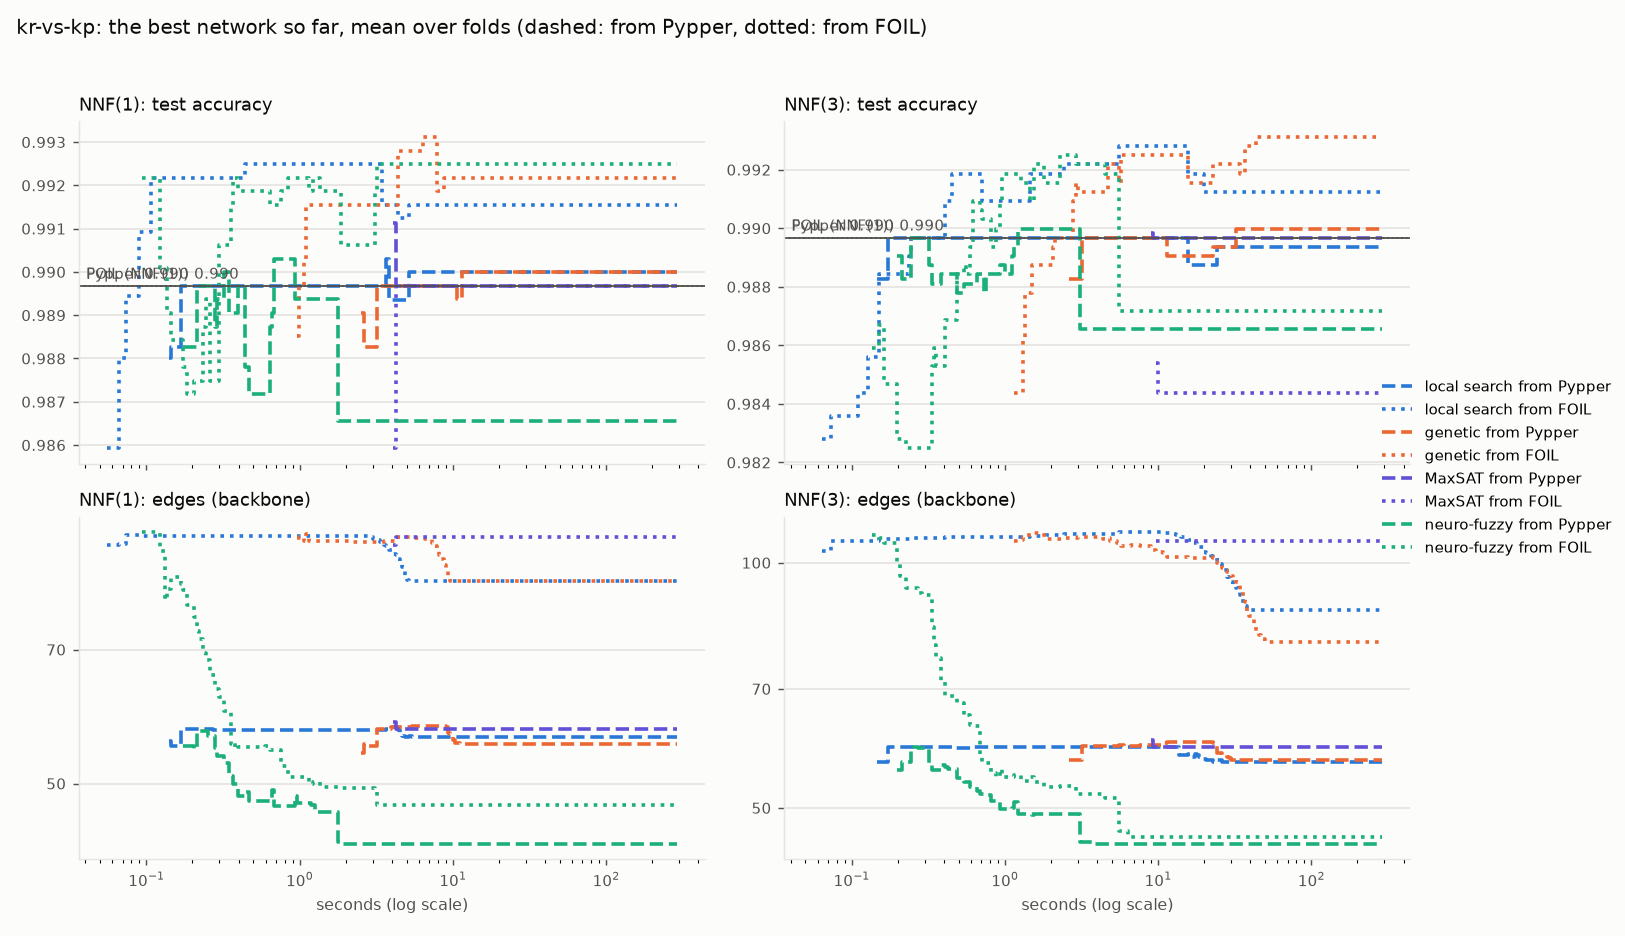
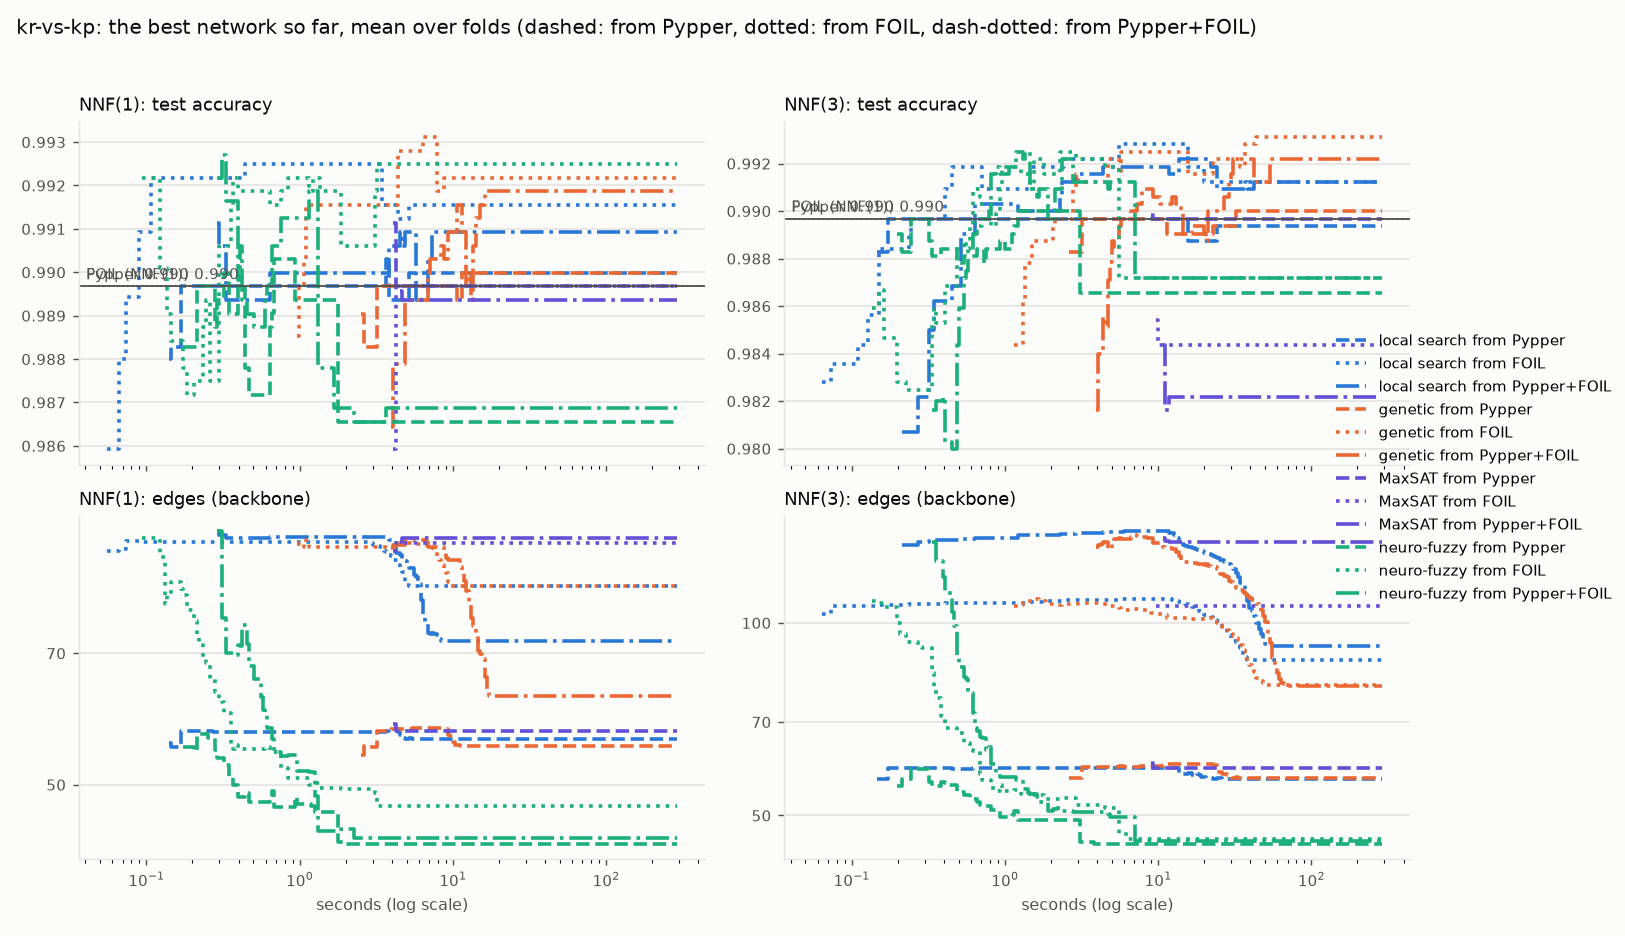
Deep rule networks: part 4 results with Pypper+FOIL as the start
The full run on dd66505 (only the Pypper+FOIL starts fitted): the union
of the two rule sets behaves like FOIL's alone -- the start is as
accurate (FOIL's specific rules bring their false positives, Pypper's
few general ones add little), and the learners end within a few tenths
of their runs from FOIL, mostly; better than from Pypper on parity,
kr-vs-kp, mushroom and KRK (neuro-fuzzy 88.2 %), worse on tic-tac-toe,
breast-cancer and SPECT.

diff --git a/demos/deep_rule_networks_report.md b/demos/deep_rule_networks_report.md
@@ -30,7 +30,8 @@ and from Pypper, lambda = 1, each with 1500 s (`max_seconds`, epochs and
 generations unbounded). No MaxSAT: the formula would have millions of variables.
 
 Part 4: parts 2 and 3 with the learners started from FOIL's rules instead of Pypper's
-(`FoilInit`: `PFoil` for the output's class, at most one rule per first-layer node).
+(`FoilInit`: `PFoil` for the output's class, at most one rule per first-layer node), and from
+both (`PypperFoilInit`: Pypper's rules, then FOIL's new ones, the same limit).
 
 Each fit is capped at 1800 s; a time-out drops the learner's whole
 cross-validation on that dataset (the folds not yet started are skipped; `time-out (k/n)`:
@@ -121,42 +122,98 @@ Final test accuracy (%), backbone edges and mean fit time (s):
 | neuro-fuzzy from Pypper | 85.80 | 45 | 1500 |
 | Pypper with relations | 99.80 | | |
 
-## Part 4: FOIL as the start
+## Part 4: FOIL and Pypper+FOIL as the start
 
-Parts 2 and 3 with the learners started from FOIL's rules (`PFoil` for the class the network learns, at most one rule per first-layer node: `FoilInit`) instead of Pypper's. Final test accuracy (%) with the backbone's edges in brackets; *start*: the rule set itself (Pypper; FOIL cut to the layer's width).
+Parts 2 and 3 with the learners started from Pypper's rules, FOIL's (`PFoil` for the class the network learns, at most one rule per first-layer node: `FoilInit`) and both (`PypperFoilInit`: Pypper's rules, then FOIL's new ones, at most one rule per first-layer node; the union of the two DNFs). Final test accuracy (%) with the backbone's edges in brackets; *the start*: the start network itself (the first point of local search's trace).
 
 **NNF(1)** `[20]`:
 
-| dataset | Pypper (start) | FOIL (start) | local search from Pypper | local search from FOIL | genetic from Pypper | genetic from FOIL | MaxSAT from Pypper | MaxSAT from FOIL | neuro-fuzzy from Pypper | neuro-fuzzy from FOIL |
-|---|--:|--:|--:|--:|--:|--:|--:|--:|--:|--:|
-| tic-tac-toe | 98.33 | 93.62 | 98.33 (32) | 96.87 (53) | 98.33 (32) | 96.66 (52) | 98.33 (32) | 93.62 (60) | 98.33 (32) | 98.33 (32) |
-| kr-vs-kp | 98.97 | 98.97 | 99.00 (56) | 99.16 (83) | 99.00 (55) | 99.22 (83) | 98.97 (57) | 98.97 (93) | 98.59 (43) | 98.66 (47) |
-| vote | 95.86 | 89.20 | 95.86 (8) | 95.40 (27) | 95.86 (7) | 95.86 (19) | 95.17 (4) | 95.17 (3) | 95.17 (4) | 95.63 (3) |
-| breast-cancer | 74.45 | 52.45 | 74.46 (4) | 66.09 (51) | 74.46 (4) | 67.48 (53) | 70.65 (6) | 71.66 (8) | 74.46 (4) | 72.70 (7) |
-| SPECT | 79.80 | 56.19 | 80.92 (7) | 79.40 (22) | 83.13 (7) | 78.67 (22) | 83.14 (7) | 83.14 (7) | 80.91 (7) | 82.02 (7) |
-| parity-4-of-10 | 62.39 | 73.71 | 95.12 (36) | 100.00 (40) | 95.12 (36) | 100.00 (40) | 99.22 (45) | 100.00 (43) | 80.77 (39) | 100.00 (40) |
-| mushroom | 99.96 | 100.00 | 99.96 (16) | 100.00 (16) | 99.96 (16) | 100.00 (16) | not run | not run | 99.96 (16) | 100.00 (16) |
+| dataset | learner | from Pypper | from FOIL | from Pypper+FOIL |
+|---|---|--:|--:|--:|
+| tic-tac-toe | the start | 98.33 (32) | 93.62 (60) | 93.62 (68) |
+| | local search | 98.33 (32) | 96.87 (53) | 96.87 (53) |
+| | genetic | 98.33 (32) | 96.66 (52) | 97.29 (49) |
+| | MaxSAT | 98.33 (32) | 93.62 (60) | 93.62 (68) |
+| | neuro-fuzzy | 98.33 (32) | 98.33 (32) | 98.33 (32) |
+| kr-vs-kp | the start | 98.97 (57) | 98.97 (93) | 98.94 (94) |
+| | local search | 99.00 (56) | 99.16 (83) | 99.09 (72) |
+| | genetic | 99.00 (55) | 99.22 (83) | 99.19 (63) |
+| | MaxSAT | 98.97 (57) | 98.97 (93) | 98.94 (94) |
+| | neuro-fuzzy | 98.59 (43) | 98.66 (47) | 98.62 (44) |
+| vote | the start | 95.86 (8) | 89.20 (47) | 88.97 (55) |
+| | local search | 95.86 (8) | 95.40 (27) | 95.40 (28) |
+| | genetic | 95.86 (7) | 95.86 (19) | 95.63 (15) |
+| | MaxSAT | 95.17 (4) | 95.17 (3) | 95.63 (4) |
+| | neuro-fuzzy | 95.17 (4) | 95.63 (3) | 95.63 (2) |
+| breast-cancer | the start | 74.45 (3) | 52.45 (72) | 51.75 (75) |
+| | local search | 74.46 (4) | 66.09 (51) | 65.38 (55) |
+| | genetic | 74.46 (4) | 67.48 (53) | 68.16 (43) |
+| | MaxSAT | 70.65 (6) | 71.66 (8) | 72.37 (10) |
+| | neuro-fuzzy | 74.46 (4) | 72.70 (7) | 72.70 (7) |
+| SPECT | the start | 79.80 (6) | 56.19 (34) | 56.19 (40) |
+| | local search | 80.92 (7) | 79.40 (22) | 78.66 (24) |
+| | genetic | 83.13 (7) | 78.67 (22) | 80.53 (24) |
+| | MaxSAT | 83.14 (7) | 83.14 (7) | 83.15 (7) |
+| | neuro-fuzzy | 80.91 (7) | 82.02 (7) | 82.76 (6) |
+| parity-4-of-10 | the start | 62.39 (21) | 74.69 (145) | 70.10 (142) |
+| | local search | 95.12 (36) | 100.00 (40) | 95.12 (36) |
+| | genetic | 95.12 (36) | 100.00 (40) | 100.00 (40) |
+| | MaxSAT | 99.22 (45) | 100.00 (43) | 100.00 (43) |
+| | neuro-fuzzy | 80.77 (39) | 100.00 (40) | 100.00 (40) |
+| mushroom | the start | 99.96 (16) | 100.00 (17) | 100.00 (22) |
+| | local search | 99.96 (16) | 100.00 (16) | 100.00 (16) |
+| | genetic | 99.96 (16) | 100.00 (16) | 100.00 (15) |
+| | MaxSAT | not run | not run | not run |
+| | neuro-fuzzy | 99.96 (16) | 100.00 (16) | 100.00 (16) |
 
 **NNF(3)** `[32, 8, 2]`:
 
-| dataset | Pypper (start) | FOIL (start) | local search from Pypper | local search from FOIL | genetic from Pypper | genetic from FOIL | MaxSAT from Pypper | MaxSAT from FOIL | neuro-fuzzy from Pypper | neuro-fuzzy from FOIL |
-|---|--:|--:|--:|--:|--:|--:|--:|--:|--:|--:|
-| tic-tac-toe | 98.33 | 93.62 | 98.33 (34) | 96.87 (53) | 98.33 (34) | 96.87 (51) | 98.33 (34) | 93.62 (62) | 98.33 (34) | 98.33 (34) |
-| kr-vs-kp | 98.97 | 98.44 | 98.94 (57) | 99.12 (88) | 99.00 (57) | 99.31 (80) | 98.97 (59) | 98.44 (106) | 98.53 (45) | 98.66 (46) |
-| vote | 95.86 | 89.20 | 95.86 (10) | 95.40 (29) | 95.63 (10) | 95.63 (22) | 95.63 (8) | 95.63 (5) | 95.17 (6) | 95.63 (6) |
-| breast-cancer | 74.45 | 52.45 | 73.41 (5) | 65.74 (41) | 73.42 (7) | 70.98 (2) | 72.38 (6) | 71.68 (4) | 74.46 (6) | 73.41 (9) |
-| SPECT | 79.80 | 56.19 | 80.92 (10) | 77.53 (21) | 80.53 (9) | 79.40 (0) | 82.75 (9) | 84.26 (9) | 80.91 (7) | 79.76 (6) |
-| parity-4-of-10 | 62.39 | 84.24 | 100.00 (43) | 100.00 (42) | 100.00 (41) | 100.00 (42) | 99.80 (38) | 97.95 (50) | 66.40 (14) | 100.00 (42) |
-| mushroom | 99.96 | 100.00 | 99.96 (18) | 100.00 (18) | 99.96 (18) | 100.00 (18) | not run | not run | 99.96 (18) | 100.00 (18) |
+| dataset | learner | from Pypper | from FOIL | from Pypper+FOIL |
+|---|---|--:|--:|--:|
+| tic-tac-toe | the start | 98.33 (34) | 93.62 (62) | 93.62 (70) |
+| | local search | 98.33 (34) | 96.87 (53) | 96.87 (53) |
+| | genetic | 98.33 (34) | 96.87 (51) | 96.87 (54) |
+| | MaxSAT | 98.33 (34) | 93.62 (62) | 93.62 (70) |
+| | neuro-fuzzy | 98.33 (34) | 98.33 (34) | 98.33 (34) |
+| kr-vs-kp | the start | 98.97 (59) | 98.44 (106) | 98.22 (134) |
+| | local search | 98.94 (57) | 99.12 (88) | 99.12 (92) |
+| | genetic | 99.00 (57) | 99.31 (80) | 99.22 (80) |
+| | MaxSAT | 98.97 (59) | 98.44 (106) | 98.22 (134) |
+| | neuro-fuzzy | 98.53 (45) | 98.66 (46) | 98.66 (46) |
+| vote | the start | 95.86 (10) | 89.20 (49) | 88.97 (57) |
+| | local search | 95.86 (10) | 95.40 (29) | 95.17 (26) |
+| | genetic | 95.63 (10) | 95.63 (22) | 95.40 (22) |
+| | MaxSAT | 95.63 (8) | 95.63 (5) | 95.63 (4) |
+| | neuro-fuzzy | 95.17 (6) | 95.63 (6) | 95.17 (5) |
+| breast-cancer | the start | 74.45 (5) | 52.45 (74) | 51.75 (77) |
+| | local search | 73.41 (5) | 65.74 (41) | 67.14 (32) |
+| | genetic | 73.42 (7) | 70.98 (2) | 70.98 (11) |
+| | MaxSAT | 72.38 (6) | 71.68 (4) | 70.98 (1) |
+| | neuro-fuzzy | 74.46 (6) | 73.41 (9) | 72.70 (9) |
+| SPECT | the start | 79.80 (8) | 56.19 (36) | 56.19 (42) |
+| | local search | 80.92 (10) | 77.53 (21) | 78.62 (17) |
+| | genetic | 80.53 (9) | 79.40 (0) | 79.40 (0) |
+| | MaxSAT | 82.75 (9) | 84.26 (9) | 82.78 (10) |
+| | neuro-fuzzy | 80.91 (7) | 79.76 (6) | 80.89 (5) |
+| parity-4-of-10 | the start | 62.39 (23) | 87.87 (197) | 84.07 (212) |
+| | local search | 100.00 (43) | 100.00 (42) | 100.00 (41) |
+| | genetic | 100.00 (41) | 100.00 (42) | 100.00 (42) |
+| | MaxSAT | 99.80 (38) | 97.95 (50) | 97.95 (49) |
+| | neuro-fuzzy | 66.40 (14) | 100.00 (42) | 100.00 (42) |
+| mushroom | the start | 99.96 (18) | 100.00 (19) | 100.00 (24) |
+| | local search | 99.96 (18) | 100.00 (18) | 100.00 (18) |
+| | genetic | 99.96 (18) | 100.00 (18) | 100.00 (17) |
+| | MaxSAT | not run | not run | not run |
+| | neuro-fuzzy | 99.96 (18) | 100.00 (18) | 100.00 (18) |
 
 **KRK** (`[128, 16, 4]`, 1500 s per fit):
 
-| learner | from Pypper | from FOIL |
-|---|--:|--:|
-| the start | 79.20 | 73.30 |
-| local search | 79.20 (40) | 68.00 (0) |
-| genetic | 79.20 (40) | 81.60 (220) |
-| neuro-fuzzy | 85.80 (45) | 88.40 (59) |
+| learner | from Pypper | from FOIL | from Pypper+FOIL |
+|---|--:|--:|--:|
+| the start | 79.20 (40) | 73.30 (218) | 73.80 (245) |
+| local search | 79.20 (40) | 68.00 (0) | 68.00 (0) |
+| genetic | 79.20 (40) | 81.60 (220) | 81.30 (203) |
+| neuro-fuzzy | 85.80 (45) | 88.40 (59) | 88.20 (59) |
 
 ![tic-tac-toe](deep_rule_networks_plots/deep_rule_networks_foil_tic-tac-toe.png)
 
